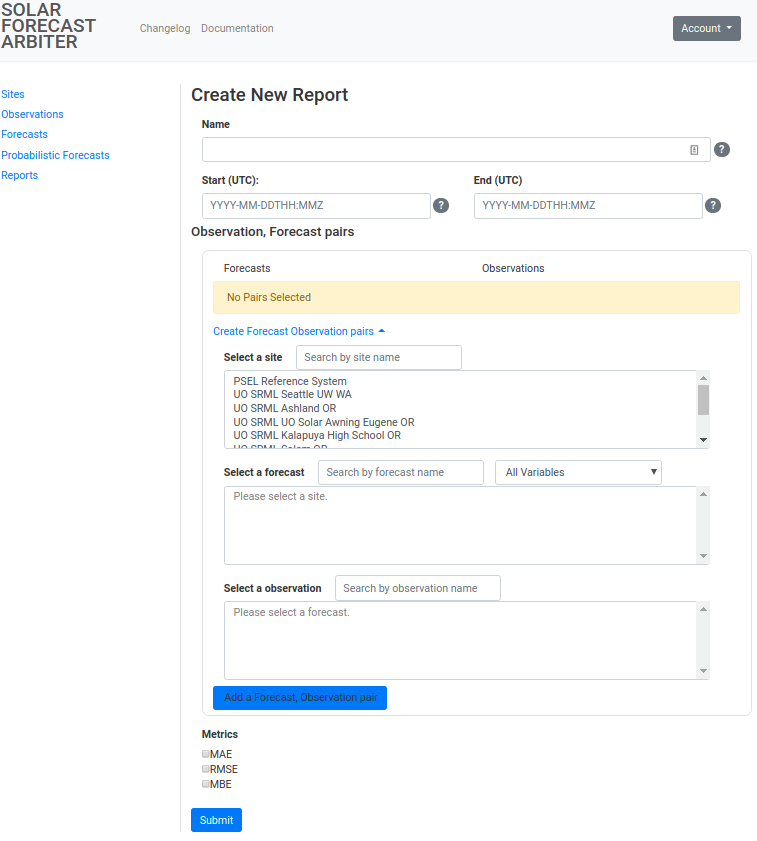
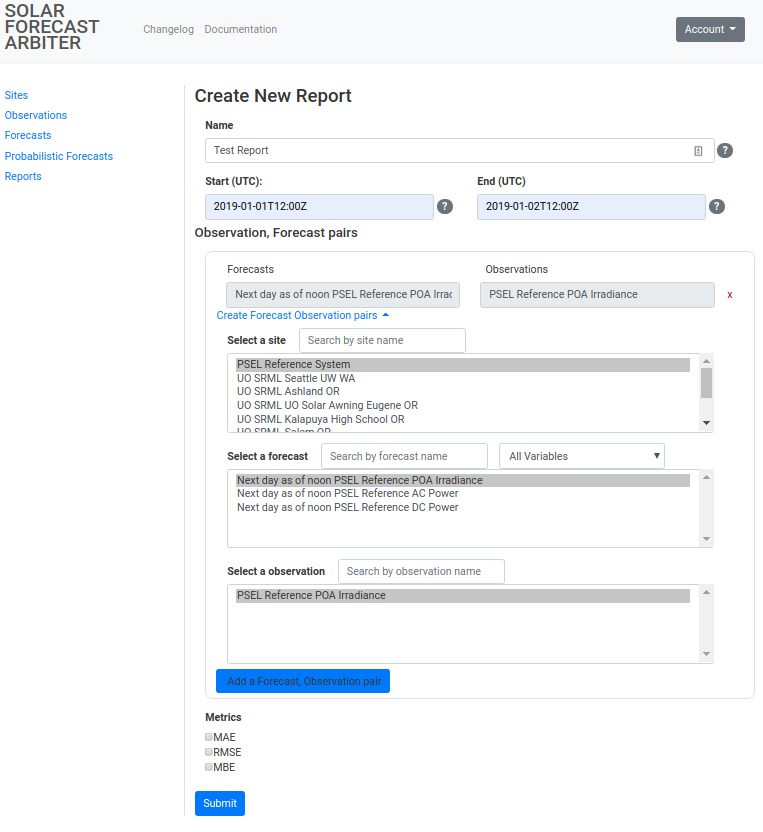
updates to permissionsy-stuff

diff --git a/_includes/dashboard_sidebar.html b/_includes/dashboard_sidebar.html
@@ -25,8 +25,15 @@
   <li><a href="#permissionrole-management">Permission and Role Management</a></li>
     <ul>
       <li><a href="#users">Users</a></li>
-      <li><a href="#roles">Roles</a></li>
-      <li><a href="#permissions">Permissions</a></li>
+        <ul>
+            <li><a href="#granting-roles-to-a-user">Granting roles to a user</a></li>
+        </ul>
+      <li><a href="#create-new-role">Create New Role</a></li>
+        <ul>
+            <li><a href="#granting-a-role-to-a-user">Granting a role to a user</a></li>
+        </ul>
+
+      <li><a href="#create-new-permission">Create-new-Permission</a></li>
     </ul>
 </ul>
 </div>

diff --git a/dashboard_documentation.md b/dashboard_documentation.md
@@ -208,9 +208,13 @@ for details.
     <img class="my-3" src="/images/reports.png"/>
 
 2.  Enter the report name and a start and end for the period to analyze.
-    Add pairs of Observations and Forecasts to compare by clicking the
-    **Add Forecast, Observation pair** button. Check the boxes for
-    metrics to calculate in the report.
+    To pairs of Observations and Forecasts, start by selecting a Site. The forecast
+    field will populate with a list of forecasts located at the site. Selecting a
+    forecast will populate the observation field with observations field with
+    observations that match the forecast's site and variable. Click the 
+    **Add Forecast, Observation pair** button. Multiple Pairs can be added by repeating
+    this process. Pairs can be removed by clicking the 'x' on the right side of the
+    forecast & observation table.
 
      <img class="my-3" src="/images/report_form.png"/>
 
@@ -240,31 +244,75 @@ on these pages.
 
 ### Users
 {: .anchor}
--   The Users tab will list the Users you have access to administer or view.
+
+Unlike other types of data, *Users* are only created through the signup process
+outlined in <a href="#getting-started">getting started</a>.
+
+-   The *Users* tab will list the users you have access to administer or view.
 	<img class="my-3" src="/images/users.png"/>
 
 
 -	Clicking on an individual user will list information about the user and their
-    roles.
+    roles. Roles may be revoked from the user by clicking the *Remove* link on the
+    far right of each row of the listing.
     <img class="my-3" src="/images/user.png"/>
 
 
-### Roles
+#### Granting roles to a user
 {: .anchor}
--	The Roles tab will list all of the Roles you have access to administer or view.
+-    The *Add Roles* button will display a list of roles that are not already granted
+    to the user. Roles are granted to the user by clicking the checkboxes of the roles
+    to grant and clicking *Submit*. Roles can also be granted from the *Roles* section
+    of the admin menu.
+    <img class="my-3" src="/images/user.png"/>
+
+
+### Create New Role
+{: .anchor}
+
+1.  Navigate to the roles listing with the *Roles* tab of the admin menu. This page
+    will list all of the Roles you have access to administer or view. 
     <img class="my-3" src="/images/roles.png"/>
 
--	Clicking on an individual Role will list information about it and the permissions
-    associated with it.
+2.  Click the *Create new Role* button. You will be prompted for a name and description
+    of the role and a list of permissions the role should have. Check the boxes next 
+    to each permission that the role should grant and click submit.
+    <img class="my-3" src="/images/role_form.png"/>
+    
+-   *Created Role pages*
+
+	Clicking on an individual Role will list information about it and the permissions
+    associated with it. Use the tabs below the metadata section to switch between the
+    list of permissions on the role and a list of users the role has been granted to.
+
+    *Role permissions listing*
     <img class="my-3" src="/images/role.png"/>
+    *Role users listing*
+    <img class="my-3" src="/images/role_users.png"/>
 
-
-### Permissions
+#### Granting a role to a user
 {: .anchor}
--	The Permissions tab will list all of the Permissions you have access to administer
-    or view.
+-   The 'Grant Role' button will display a form for sharing roles with a single user
+    at a time. Enter the user's uer ID and click submit to share the role.
+    <img class="my-3" src="/images/role_grant.png"/>
+
+### Create New Permission
+{: .anchor}
+1.	Navigate to the Permissions listing with the *Permissiosn* tab of the admin menu.
+    This page will list all of the Permissions you have access to administer or view.
     <img class="my-3" src="/images/permissions.png"/>
 
--	Clicking on an individual Permission will list information about it and the objects
+2.  Click on the data type you would like to create a permission for in the "Create new
+    Permission" box. You will be prompted for a description of the permission, the
+    action the permission allows and a list of objects. Click the checkboxes for each
+    object that the permission should allow its action on. Selecting *Applies to all*
+    will cause the permission to affect all current and future objects of the
+    permission's type.
+
+    *Permission form for observation permsission*
+    <img src="/images/permission_form.png"/>
+
+-	*Created Permission pages*
+    Clicking on an individual Permission will list information about it and the objects
     it applies to.
     <img class="my-3" src="/images/permission.png"/>

diff --git a/dataaccessworkflow.md b/dataaccessworkflow.md
@@ -6,10 +6,9 @@ permalink: /data-access-workflow/
 # Solar Forecast Arbiter Data Access Control Workflow
 {: .anchor}
 
-The purpose of this document is to describe the proposed process for
-creating and managing user accounts and data access in the Solar
-Forecast Arbiter. The accompanying user interface is described in
-the [dashboard documentation](/documentation/dashboard/#permissionrole-management).
+This guide descibes how to use the the Solar Forecast Arbiter's
+role based access control system to manage access to data on
+the system.
 
 # Account Creation
 {: .anchor}
